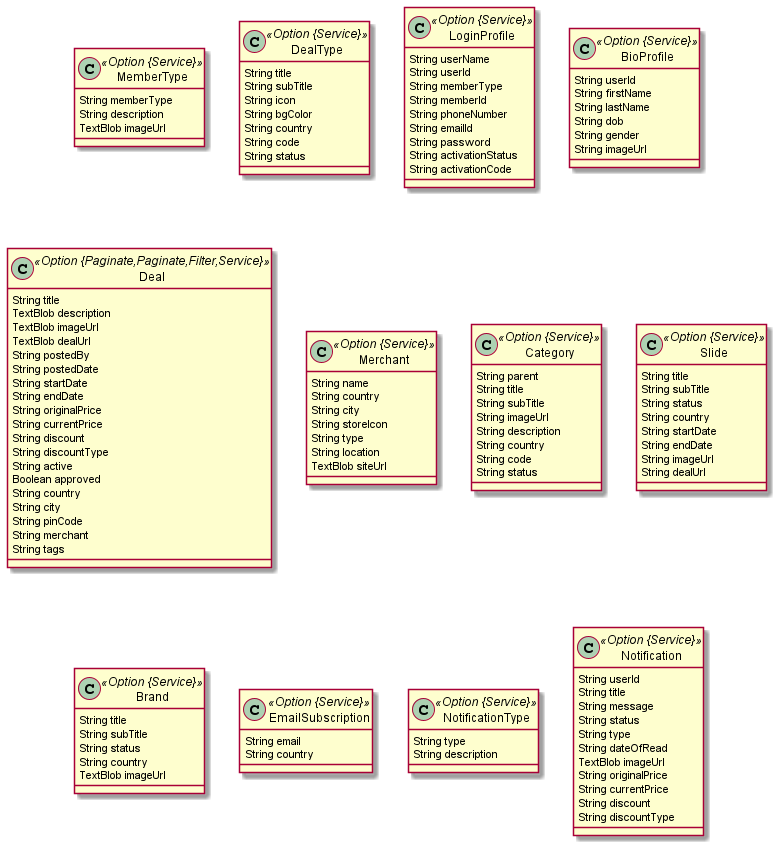
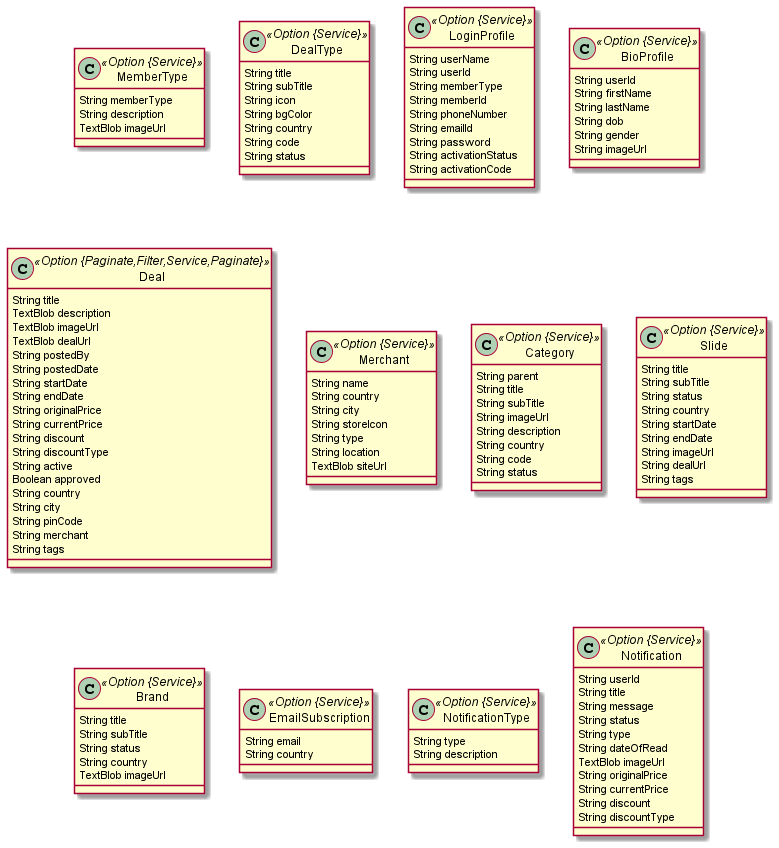
added selected types and updated deal cards

Changed region(s): [[0.801, 0.3679, 1.0, 0.6132], [0.1849, 0.3066, 0.3081, 0.3373]]

diff --git a/src/main/webapp/app/entities/slide/slide.test-samples.ts b/src/main/webapp/app/entities/slide/slide.test-samples.ts
@@ -5,20 +5,22 @@ export const sampleWithRequiredData: ISlide = {
 };
 
 export const sampleWithPartialData: ISlide = {
-  id: 55451,
-  endDate: 'Plastic e-enable',
+  id: 40476,
+  endDate: 'framework',
+  tags: 'Personal azure sensor',
 };
 
 export const sampleWithFullData: ISlide = {
-  id: 94716,
-  title: 'azure',
-  subTitle: 'Bedfordshire Producer Lakes',
-  status: 'Plastic Self-enabling Buckinghamshire',
-  country: 'Guatemala',
-  startDate: 'e-business',
-  endDate: 'XML 24/7',
-  imageUrl: 'Viaduct encompassing',
-  dealUrl: 'Generic Marketing Operations',
+  id: 11894,
+  title: 'protocol portals Plastic',
+  subTitle: 'digital',
+  status: 'even-keeled e-business user-centric',
+  country: 'Guinea-Bissau',
+  startDate: 'Computers',
+  endDate: 'Identity magnetic',
+  imageUrl: 'Checking',
+  dealUrl: 'Marketing',
+  tags: 'Norway background application',
 };
 
 export const sampleWithNewData: NewSlide = {

diff --git a/src/main/webapp/app/entities/slide/list/slide.component.html b/src/main/webapp/app/entities/slide/list/slide.component.html
@@ -86,6 +86,12 @@
               <fa-icon class="p-1" icon="sort"></fa-icon>
             </div>
           </th>
+          <th scope="col" jhiSortBy="tags">
+            <div class="d-flex">
+              <span>Tags</span>
+              <fa-icon class="p-1" icon="sort"></fa-icon>
+            </div>
+          </th>
           <th scope="col"></th>
         </tr>
       </thead>
@@ -102,6 +108,7 @@
           <td>{{ slide.endDate }}</td>
           <td>{{ slide.imageUrl }}</td>
           <td>{{ slide.dealUrl }}</td>
+          <td>{{ slide.tags }}</td>
           <td class="text-end">
             <div class="btn-group">
               <button type="submit" [routerLink]="['/slide', slide.id, 'view']" class="btn btn-info btn-sm" data-cy="entityDetailsButton">

diff --git a/src/test/javascript/e2e/entities/slide/slide.page-object.ts b/src/test/javascript/e2e/entities/slide/slide.page-object.ts
@@ -38,6 +38,7 @@ export class SlideUpdatePage {
   endDateInput = element(by.id('field_endDate'));
   imageUrlInput = element(by.id('field_imageUrl'));
   dealUrlInput = element(by.id('field_dealUrl'));
+  tagsInput = element(by.id('field_tags'));
 
   async getPageTitle(): Promise<string> {
     return this.pageTitle.getText();
@@ -113,6 +114,14 @@ export class SlideUpdatePage {
 
   async getDealUrlInput(): Promise<string> {
     return await this.dealUrlInput.getAttribute('value');
+  }
+
+  async setTagsInput(tags: string): Promise<void> {
+    await this.tagsInput.sendKeys(tags);
+  }
+
+  async getTagsInput(): Promise<string> {
+    return await this.tagsInput.getAttribute('value');
   }
 
   async save(): Promise<void> {

diff --git a/src/main/webapp/app/entities/slide/update/slide-form.service.ts b/src/main/webapp/app/entities/slide/update/slide-form.service.ts
@@ -26,6 +26,7 @@ type SlideFormGroupContent = {
   endDate: FormControl<ISlide['endDate']>;
   imageUrl: FormControl<ISlide['imageUrl']>;
   dealUrl: FormControl<ISlide['dealUrl']>;
+  tags: FormControl<ISlide['tags']>;
 };
 
 export type SlideFormGroup = FormGroup<SlideFormGroupContent>;
@@ -53,6 +54,7 @@ export class SlideFormService {
       endDate: new FormControl(slideRawValue.endDate),
       imageUrl: new FormControl(slideRawValue.imageUrl),
       dealUrl: new FormControl(slideRawValue.dealUrl),
+      tags: new FormControl(slideRawValue.tags),
     });
   }
 

diff --git a/src/main/webapp/app/entities/slide/update/slide-form.service.spec.ts b/src/main/webapp/app/entities/slide/update/slide-form.service.spec.ts
@@ -28,6 +28,7 @@ describe('Slide Form Service', () => {
             endDate: expect.any(Object),
             imageUrl: expect.any(Object),
             dealUrl: expect.any(Object),
+            tags: expect.any(Object),
           })
         );
       });
@@ -46,6 +47,7 @@ describe('Slide Form Service', () => {
             endDate: expect.any(Object),
             imageUrl: expect.any(Object),
             dealUrl: expect.any(Object),
+            tags: expect.any(Object),
           })
         );
       });

diff --git a/src/main/webapp/app/entities/slide/update/slide-update.component.html b/src/main/webapp/app/entities/slide/update/slide-update.component.html
@@ -50,6 +50,11 @@
           <label class="form-label" for="field_dealUrl">Deal Url</label>
           <input type="text" class="form-control" name="dealUrl" id="field_dealUrl" data-cy="dealUrl" formControlName="dealUrl" />
         </div>
+
+        <div class="row mb-3">
+          <label class="form-label" for="field_tags">Tags</label>
+          <input type="text" class="form-control" name="tags" id="field_tags" data-cy="tags" formControlName="tags" />
+        </div>
       </div>
 
       <div>

diff --git a/src/main/webapp/app/entities/slide/detail/slide-detail.component.html b/src/main/webapp/app/entities/slide/detail/slide-detail.component.html
@@ -46,6 +46,10 @@
         <dd>
           <span>{{ slide.dealUrl }}</span>
         </dd>
+        <dt><span>Tags</span></dt>
+        <dd>
+          <span>{{ slide.tags }}</span>
+        </dd>
       </dl>
 
       <button type="submit" (click)="previousState()" class="btn btn-info" data-cy="entityDetailsBackButton">

diff --git a/src/test/javascript/e2e/entities/slide/slide.spec.ts b/src/test/javascript/e2e/entities/slide/slide.spec.ts
@@ -51,6 +51,7 @@ describe('Slide e2e test', () => {
       slideUpdatePage.setEndDateInput('endDate'),
       slideUpdatePage.setImageUrlInput('imageUrl'),
       slideUpdatePage.setDealUrlInput('dealUrl'),
+      slideUpdatePage.setTagsInput('tags'),
     ]);
 
     await slideUpdatePage.save();

diff --git a/src/main/webapp/app/entities/slide/slide.model.ts b/src/main/webapp/app/entities/slide/slide.model.ts
@@ -8,6 +8,7 @@ export interface ISlide {
   endDate?: string | null;
   imageUrl?: string | null;
   dealUrl?: string | null;
+  tags?: string | null;
 }
 
 export type NewSlide = Omit<ISlide, 'id'> & { id: null };

diff --git a/src/test/java/com/deals/naari/web/rest/SlideResourceIT.java b/src/test/java/com/deals/naari/web/rest/SlideResourceIT.java
@@ -53,6 +53,9 @@ class SlideResourceIT {
     private static final String DEFAULT_DEAL_URL = "AAAAAAAAAA";
     private static final String UPDATED_DEAL_URL = "BBBBBBBBBB";
 
+    private static final String DEFAULT_TAGS = "AAAAAAAAAA";
+    private static final String UPDATED_TAGS = "BBBBBBBBBB";
+
     private static final String ENTITY_API_URL = "/api/slides";
     private static final String ENTITY_API_URL_ID = ENTITY_API_URL + "/{id}";
 
@@ -85,7 +88,8 @@ class SlideResourceIT {
             .startDate(DEFAULT_START_DATE)
             .endDate(DEFAULT_END_DATE)
             .imageUrl(DEFAULT_IMAGE_URL)
-            .dealUrl(DEFAULT_DEAL_URL);
+            .dealUrl(DEFAULT_DEAL_URL)
+            .tags(DEFAULT_TAGS);
         return slide;
     }
 
@@ -104,7 +108,8 @@ class SlideResourceIT {
             .startDate(UPDATED_START_DATE)
             .endDate(UPDATED_END_DATE)
             .imageUrl(UPDATED_IMAGE_URL)
-            .dealUrl(UPDATED_DEAL_URL);
+            .dealUrl(UPDATED_DEAL_URL)
+            .tags(UPDATED_TAGS);
         return slide;
     }
 
@@ -134,6 +139,7 @@ class SlideResourceIT {
         assertThat(testSlide.getEndDate()).isEqualTo(DEFAULT_END_DATE);
         assertThat(testSlide.getImageUrl()).isEqualTo(DEFAULT_IMAGE_URL);
         assertThat(testSlide.getDealUrl()).isEqualTo(DEFAULT_DEAL_URL);
+        assertThat(testSlide.getTags()).isEqualTo(DEFAULT_TAGS);
     }
 
     @Test
@@ -173,7 +179,8 @@ class SlideResourceIT {
             .andExpect(jsonPath("$.[*].startDate").value(hasItem(DEFAULT_START_DATE)))
             .andExpect(jsonPath("$.[*].endDate").value(hasItem(DEFAULT_END_DATE)))
             .andExpect(jsonPath("$.[*].imageUrl").value(hasItem(DEFAULT_IMAGE_URL)))
-            .andExpect(jsonPath("$.[*].dealUrl").value(hasItem(DEFAULT_DEAL_URL)));
+            .andExpect(jsonPath("$.[*].dealUrl").value(hasItem(DEFAULT_DEAL_URL)))
+            .andExpect(jsonPath("$.[*].tags").value(hasItem(DEFAULT_TAGS)));
     }
 
     @Test
@@ -195,7 +202,8 @@ class SlideResourceIT {
             .andExpect(jsonPath("$.startDate").value(DEFAULT_START_DATE))
             .andExpect(jsonPath("$.endDate").value(DEFAULT_END_DATE))
             .andExpect(jsonPath("$.imageUrl").value(DEFAULT_IMAGE_URL))
-            .andExpect(jsonPath("$.dealUrl").value(DEFAULT_DEAL_URL));
+            .andExpect(jsonPath("$.dealUrl").value(DEFAULT_DEAL_URL))
+            .andExpect(jsonPath("$.tags").value(DEFAULT_TAGS));
     }
 
     @Test
@@ -225,7 +233,8 @@ class SlideResourceIT {
             .startDate(UPDATED_START_DATE)
             .endDate(UPDATED_END_DATE)
             .imageUrl(UPDATED_IMAGE_URL)
-            .dealUrl(UPDATED_DEAL_URL);
+            .dealUrl(UPDATED_DEAL_URL)
+            .tags(UPDATED_TAGS);
 
         restSlideMockMvc
             .perform(
@@ -247,6 +256,7 @@ class SlideResourceIT {
         assertThat(testSlide.getEndDate()).isEqualTo(UPDATED_END_DATE);
         assertThat(testSlide.getImageUrl()).isEqualTo(UPDATED_IMAGE_URL);
         assertThat(testSlide.getDealUrl()).isEqualTo(UPDATED_DEAL_URL);
+        assertThat(testSlide.getTags()).isEqualTo(UPDATED_TAGS);
     }
 
     @Test
@@ -339,6 +349,7 @@ class SlideResourceIT {
         assertThat(testSlide.getEndDate()).isEqualTo(DEFAULT_END_DATE);
         assertThat(testSlide.getImageUrl()).isEqualTo(UPDATED_IMAGE_URL);
         assertThat(testSlide.getDealUrl()).isEqualTo(DEFAULT_DEAL_URL);
+        assertThat(testSlide.getTags()).isEqualTo(DEFAULT_TAGS);
     }
 
     @Test
@@ -361,7 +372,8 @@ class SlideResourceIT {
             .startDate(UPDATED_START_DATE)
             .endDate(UPDATED_END_DATE)
             .imageUrl(UPDATED_IMAGE_URL)
-            .dealUrl(UPDATED_DEAL_URL);
+            .dealUrl(UPDATED_DEAL_URL)
+            .tags(UPDATED_TAGS);
 
         restSlideMockMvc
             .perform(
@@ -383,6 +395,7 @@ class SlideResourceIT {
         assertThat(testSlide.getEndDate()).isEqualTo(UPDATED_END_DATE);
         assertThat(testSlide.getImageUrl()).isEqualTo(UPDATED_IMAGE_URL);
         assertThat(testSlide.getDealUrl()).isEqualTo(UPDATED_DEAL_URL);
+        assertThat(testSlide.getTags()).isEqualTo(UPDATED_TAGS);
     }
 
     @Test

diff --git a/src/main/java/com/deals/naari/domain/Slide.java b/src/main/java/com/deals/naari/domain/Slide.java
@@ -45,6 +45,9 @@ public class Slide implements Serializable {
     @Column(name = "deal_url")
     private String dealUrl;
 
+    @Column(name = "tags")
+    private String tags;
+
     // jhipster-needle-entity-add-field - JHipster will add fields here
 
     public Long getId() {
@@ -164,6 +167,19 @@ public class Slide implements Serializable {
         this.dealUrl = dealUrl;
     }
 
+    public String getTags() {
+        return this.tags;
+    }
+
+    public Slide tags(String tags) {
+        this.setTags(tags);
+        return this;
+    }
+
+    public void setTags(String tags) {
+        this.tags = tags;
+    }
+
     // jhipster-needle-entity-add-getters-setters - JHipster will add getters and setters here
 
     @Override
@@ -196,6 +212,7 @@ public class Slide implements Serializable {
             ", endDate='" + getEndDate() + "'" +
             ", imageUrl='" + getImageUrl() + "'" +
             ", dealUrl='" + getDealUrl() + "'" +
+            ", tags='" + getTags() + "'" +
             "}";
     }
 }

diff --git a/src/main/java/com/deals/naari/service/impl/SlideServiceImpl.java b/src/main/java/com/deals/naari/service/impl/SlideServiceImpl.java
@@ -68,6 +68,9 @@ public class SlideServiceImpl implements SlideService {
                 if (slide.getDealUrl() != null) {
                     existingSlide.setDealUrl(slide.getDealUrl());
                 }
+                if (slide.getTags() != null) {
+                    existingSlide.setTags(slide.getTags());
+                }
 
                 return existingSlide;
             })
